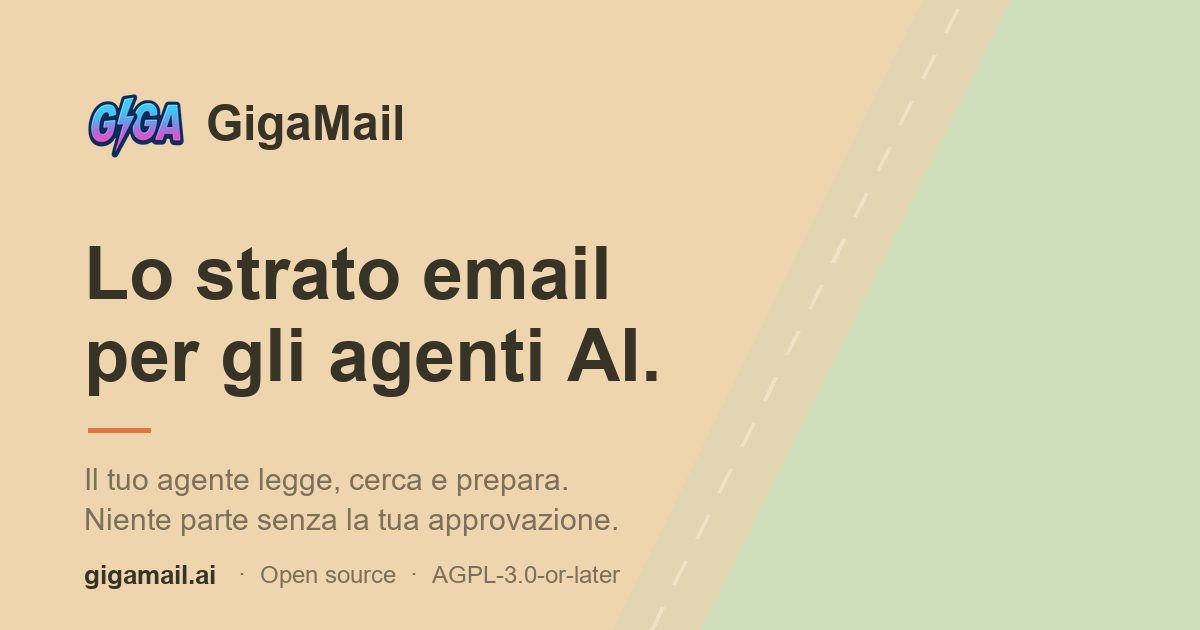
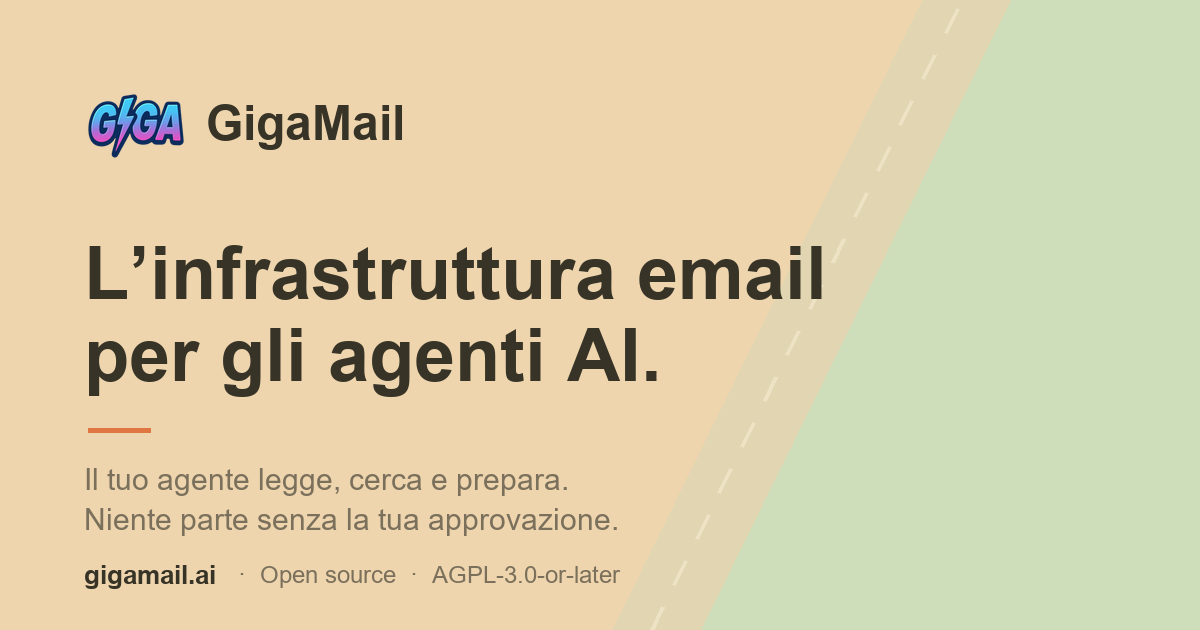
fix(sito): claim italiano e titolo dell'hero
Lo strato email era una traduzione letterale che in italiano suonava geologica: ora e' l'infrastruttura email, nel titolo, negli og:, nella guida e nella social card.

L'hero italiano dice che la mail e' guidata da un agente. Il titolo aveva bisogno di un margine destro, sul telefono andava a filo del bordo.

Changed region(s): [[0.0925, 0.3921, 0.7092, 0.4825]]

diff --git a/docs/journey.css b/docs/journey.css
@@ -1,5 +1,5 @@
-:root{font-family:Arial,Helvetica,sans-serif;color:#373427;background:#eed5ae;font-synthesis:none}*{box-sizing:border-box}body{margin:0;overflow:hidden}button{font:inherit;cursor:pointer;color:inherit}a{color:inherit;text-decoration:none}button:focus-visible,a:focus-visible,textarea:focus-visible,select:focus-visible{outline:3px solid #6861b1;outline-offset:3px}#world{position:fixed;inset:0;width:100%;height:100%;touch-action:none}header{position:fixed;top:25px;left:30px;right:30px;display:flex;justify-content:space-between;align-items:center;z-index:3;gap:15px}.brand{display:flex;align-items:center;gap:10px;font-size:24px;font-weight:700;letter-spacing:-1px}.brand .mark{width:40px;height:40px;flex:none;object-fit:contain;display:block}.brand small{font-size:10px;letter-spacing:2px;border-left:1px solid #6b694b55;padding-left:15px;margin-left:10px}.top-actions{display:flex;gap:8px;align-items:center}.top-actions button,.source{border:1px solid #ffffffaa;background:#fff9eaeb;padding:12px 16px;border-radius:30px;font-size:13px;box-shadow:0 4px 15px #71604110}.top-actions span{font-size:10px;border:1px solid #ccc7af;padding:2px 4px;margin-left:6px}.world-title{position:fixed;top:104px;left:34px;pointer-events:none}.world-title span{font-size:10px;letter-spacing:2.2px;color:#77745a}.world-title h1{font-size:33px;letter-spacing:-1.3px;font-weight:700;margin:7px 0}.world-title:after{content:'';display:block;width:42px;height:3px;background:#e07743;margin-top:14px}#panel{position:fixed;left:30px;bottom:105px;width:355px;max-height:65vh;overflow:auto;padding:24px;background:#fffbedf2;backdrop-filter:blur(14px);border:1px solid #ffffff;border-radius:20px;box-shadow:0 14px 55px #6e4d2630;z-index:3}.eyebrow{font-size:11px;letter-spacing:1.7px;font-weight:700;color:#987852;display:flex;align-items:center;gap:8px}.eyebrow:before{content:'';width:7px;height:7px;border-radius:50%;background:var(--station,#e58e52)}#title{font-size:27px;line-height:1.1;letter-spacing:-1px;margin:14px 0 12px}#description{font-size:16px;line-height:1.5;color:#79715e;margin:0 0 17px}#actions{display:flex;gap:8px;flex-wrap:wrap;margin-top:14px}#actions button{border:1px solid #d8d2bc;background:transparent;padding:11px 14px;border-radius:11px;font-size:14px;transition:transform .15s}#actions button:hover{transform:translateY(-2px)}#actions .primary{background:#3d4836;color:#fffbed;border-color:#3d4836}#actions .danger{color:#a54c43;border-color:#d6a49a}#status{font-size:12px;color:#807f5a;margin-bottom:0;line-height:1.4}textarea{width:100%;height:140px;resize:vertical;border:1px solid #d4cdb8;border-radius:9px;background:#fffdf5;color:#4f4a3b;padding:12px;font:14px/1.5 Arial}label{display:block;font-size:14px;margin-bottom:7px}select{width:100%;padding:10px;background:#f4efdf;color:#4a4738;border:1px solid #d8d2bc;border-radius:8px;font:14px Arial}.mail-card{border:1px dashed #c9bda0;padding:12px;border-radius:10px;font-size:14px;line-height:1.6;background:#f9f2df}.mail-card small{display:block;color:#9b8c71;font-size:12px}.readout{background:#ebe9d9;padding:12px;border-radius:10px;font-size:13px;line-height:1.7;margin-top:10px}.readout.bad{background:#f4dcd1;color:#97594a}.permission{display:flex;justify-content:space-between;padding:7px 0;border-bottom:1px solid #dfd8c4;font-size:13px;gap:8px}.permission em{font-style:normal;color:#a37749}#route-bar{position:fixed;bottom:62px;left:30px;right:30px;display:flex;justify-content:center;gap:5px;pointer-events:none}#route-bar span{font-size:12px;color:#726d56;background:#f9f4dfbe;border-radius:6px;padding:7px 9px}#route-bar .current{background:#3f4938;color:white}.controls{position:fixed;bottom:29px;left:30px;display:flex;gap:15px;align-items:center;font-size:12px;color:#71674d}.controls button{background:transparent;border:0;font-size:12px;text-decoration:underline}.controls kbd{font:12px Arial;background:#fff9e5;border-radius:3px;padding:4px}footer{position:fixed;right:30px;bottom:30px;font-size:10px;display:flex;gap:18px;color:#7a705b}footer a{text-decoration:underline}#map{position:fixed;right:30px;top:85px;width:270px;border-radius:18px;background:#fff9edf2;padding:20px;z-index:4;box-shadow:0 12px 30px #5b503e25}#map h2{font-size:18px;margin:0 0 12px}#map-items{display:grid;grid-template-columns:1fr 1fr;gap:6px}#map button{padding:10px 6px;font-size:13px;border:1px solid #d8d0ba;border-radius:7px;background:#f5efdf}#map small{display:block;font-size:12px;line-height:1.5;margin-top:12px;color:#918773}.touch-controls{display:none}button:disabled{opacity:.45;cursor:wait}.fallback{position:absolute;top:32%;left:40%;font-size:14px;width:220px;background:#fff9e6;padding:20px;border-radius:15px}
-@media(max-width:800px){header{top:15px;left:16px;right:16px}.brand{font-size:20px}.brand small,.source,.brand .name{display:none}.top-actions .download{padding:11px 13px;font-size:12px}.top-actions{gap:6px}.top-actions button{font-size:12px;padding:11px}.world-title{top:80px;left:20px}.world-title h1{font-size:25px}.world-title span{font-size:10px}#panel{left:14px;bottom:85px;width:calc(100% - 84px);max-width:350px;max-height:48vh;padding:17px;border-radius:16px}#title{font-size:22px;margin:9px 0}#description{font-size:14px;margin-bottom:10px}.eyebrow{font-size:10px}#actions{margin-top:10px}#actions button{padding:10px;font-size:13px}#status{font-size:12px}#route-bar{left:14px;right:14px;bottom:49px;justify-content:flex-start;overflow:hidden}#route-bar span{font-size:10px;padding:6px;white-space:nowrap}.controls{left:15px;bottom:23px}.controls>span{display:none}footer{right:15px;bottom:25px;font-size:12px}footer>span{display:none}.touch-controls{display:block;position:fixed;right:12px;bottom:100px;text-align:center}.touch-controls button{display:inline-grid;place-items:center;width:44px;height:42px;margin:2px 0;border-radius:9px;background:#fff8e9c9;border:1px solid #fff8e9;font-size:18px;touch-action:none}.touch-controls>div{display:flex;flex-direction:column}.touch-controls>button{display:block}#map{right:15px;width:260px;max-height:70vh;overflow:auto}textarea{height:110px}}
+:root{font-family:Arial,Helvetica,sans-serif;color:#373427;background:#eed5ae;font-synthesis:none}*{box-sizing:border-box}body{margin:0;overflow:hidden}button{font:inherit;cursor:pointer;color:inherit}a{color:inherit;text-decoration:none}button:focus-visible,a:focus-visible,textarea:focus-visible,select:focus-visible{outline:3px solid #6861b1;outline-offset:3px}#world{position:fixed;inset:0;width:100%;height:100%;touch-action:none}header{position:fixed;top:25px;left:30px;right:30px;display:flex;justify-content:space-between;align-items:center;z-index:3;gap:15px}.brand{display:flex;align-items:center;gap:10px;font-size:24px;font-weight:700;letter-spacing:-1px}.brand .mark{width:40px;height:40px;flex:none;object-fit:contain;display:block}.brand small{font-size:10px;letter-spacing:2px;border-left:1px solid #6b694b55;padding-left:15px;margin-left:10px}.top-actions{display:flex;gap:8px;align-items:center}.top-actions button,.source{border:1px solid #ffffffaa;background:#fff9eaeb;padding:12px 16px;border-radius:30px;font-size:13px;box-shadow:0 4px 15px #71604110}.top-actions span{font-size:10px;border:1px solid #ccc7af;padding:2px 4px;margin-left:6px}.world-title{position:fixed;top:104px;left:34px;max-width:calc(100% - 68px);pointer-events:none}.world-title span{font-size:10px;letter-spacing:2.2px;color:#77745a}.world-title h1{font-size:33px;letter-spacing:-1.3px;font-weight:700;margin:7px 0}.world-title:after{content:'';display:block;width:42px;height:3px;background:#e07743;margin-top:14px}#panel{position:fixed;left:30px;bottom:105px;width:355px;max-height:65vh;overflow:auto;padding:24px;background:#fffbedf2;backdrop-filter:blur(14px);border:1px solid #ffffff;border-radius:20px;box-shadow:0 14px 55px #6e4d2630;z-index:3}.eyebrow{font-size:11px;letter-spacing:1.7px;font-weight:700;color:#987852;display:flex;align-items:center;gap:8px}.eyebrow:before{content:'';width:7px;height:7px;border-radius:50%;background:var(--station,#e58e52)}#title{font-size:27px;line-height:1.1;letter-spacing:-1px;margin:14px 0 12px}#description{font-size:16px;line-height:1.5;color:#79715e;margin:0 0 17px}#actions{display:flex;gap:8px;flex-wrap:wrap;margin-top:14px}#actions button{border:1px solid #d8d2bc;background:transparent;padding:11px 14px;border-radius:11px;font-size:14px;transition:transform .15s}#actions button:hover{transform:translateY(-2px)}#actions .primary{background:#3d4836;color:#fffbed;border-color:#3d4836}#actions .danger{color:#a54c43;border-color:#d6a49a}#status{font-size:12px;color:#807f5a;margin-bottom:0;line-height:1.4}textarea{width:100%;height:140px;resize:vertical;border:1px solid #d4cdb8;border-radius:9px;background:#fffdf5;color:#4f4a3b;padding:12px;font:14px/1.5 Arial}label{display:block;font-size:14px;margin-bottom:7px}select{width:100%;padding:10px;background:#f4efdf;color:#4a4738;border:1px solid #d8d2bc;border-radius:8px;font:14px Arial}.mail-card{border:1px dashed #c9bda0;padding:12px;border-radius:10px;font-size:14px;line-height:1.6;background:#f9f2df}.mail-card small{display:block;color:#9b8c71;font-size:12px}.readout{background:#ebe9d9;padding:12px;border-radius:10px;font-size:13px;line-height:1.7;margin-top:10px}.readout.bad{background:#f4dcd1;color:#97594a}.permission{display:flex;justify-content:space-between;padding:7px 0;border-bottom:1px solid #dfd8c4;font-size:13px;gap:8px}.permission em{font-style:normal;color:#a37749}#route-bar{position:fixed;bottom:62px;left:30px;right:30px;display:flex;justify-content:center;gap:5px;pointer-events:none}#route-bar span{font-size:12px;color:#726d56;background:#f9f4dfbe;border-radius:6px;padding:7px 9px}#route-bar .current{background:#3f4938;color:white}.controls{position:fixed;bottom:29px;left:30px;display:flex;gap:15px;align-items:center;font-size:12px;color:#71674d}.controls button{background:transparent;border:0;font-size:12px;text-decoration:underline}.controls kbd{font:12px Arial;background:#fff9e5;border-radius:3px;padding:4px}footer{position:fixed;right:30px;bottom:30px;font-size:10px;display:flex;gap:18px;color:#7a705b}footer a{text-decoration:underline}#map{position:fixed;right:30px;top:85px;width:270px;border-radius:18px;background:#fff9edf2;padding:20px;z-index:4;box-shadow:0 12px 30px #5b503e25}#map h2{font-size:18px;margin:0 0 12px}#map-items{display:grid;grid-template-columns:1fr 1fr;gap:6px}#map button{padding:10px 6px;font-size:13px;border:1px solid #d8d0ba;border-radius:7px;background:#f5efdf}#map small{display:block;font-size:12px;line-height:1.5;margin-top:12px;color:#918773}.touch-controls{display:none}button:disabled{opacity:.45;cursor:wait}.fallback{position:absolute;top:32%;left:40%;font-size:14px;width:220px;background:#fff9e6;padding:20px;border-radius:15px}
+@media(max-width:800px){header{top:15px;left:16px;right:16px}.brand{font-size:20px}.brand small,.source,.brand .name{display:none}.top-actions .download{padding:11px 13px;font-size:12px}.top-actions{gap:6px}.top-actions button{font-size:12px;padding:11px}.world-title{top:80px;left:20px;max-width:calc(100% - 40px)}.world-title h1{font-size:25px}.world-title span{font-size:10px}#panel{left:14px;bottom:85px;width:calc(100% - 84px);max-width:350px;max-height:48vh;padding:17px;border-radius:16px}#title{font-size:22px;margin:9px 0}#description{font-size:14px;margin-bottom:10px}.eyebrow{font-size:10px}#actions{margin-top:10px}#actions button{padding:10px;font-size:13px}#status{font-size:12px}#route-bar{left:14px;right:14px;bottom:49px;justify-content:flex-start;overflow:hidden}#route-bar span{font-size:10px;padding:6px;white-space:nowrap}.controls{left:15px;bottom:23px}.controls>span{display:none}footer{right:15px;bottom:25px;font-size:12px}footer>span{display:none}.touch-controls{display:block;position:fixed;right:12px;bottom:100px;text-align:center}.touch-controls button{display:inline-grid;place-items:center;width:44px;height:42px;margin:2px 0;border-radius:9px;background:#fff8e9c9;border:1px solid #fff8e9;font-size:18px;touch-action:none}.touch-controls>div{display:flex;flex-direction:column}.touch-controls>button{display:block}#map{right:15px;width:260px;max-height:70vh;overflow:auto}textarea{height:110px}}
 html{scroll-behavior:smooth;scroll-padding-top:28px}body{overflow-x:hidden;overflow-y:auto}#game{position:relative;height:100svh;min-height:600px;overflow:hidden;isolation:isolate}#game #world,#game header,#game .world-title,#game #panel,#game #route-bar,#game .controls,#game footer,#game #map,#game .touch-controls{position:absolute}#game #world{touch-action:pan-y}.world-title .guide-link{display:inline-block;pointer-events:auto;font-size:12px;font-weight:600;border-bottom:1px solid #77745a75;padding:5px 0}.field-guide{background:#faf4e6;border-top:1px solid #b5a180;color:#373d30}.guide-wrap{max-width:1280px;margin:auto;padding:90px 48px 26px}.guide-intro{display:grid;grid-template-columns:1.4fr 1fr;gap:65px;align-items:end}.guide-kicker,.card-label{font-size:11px;font-weight:700;letter-spacing:2px;color:#9a6947}.guide-intro h2{font-size:clamp(34px,4.6vw,62px);line-height:1.05;letter-spacing:-2.5px;margin:20px 0 0}.guide-intro>p{font-size:18px;line-height:1.7;color:#74735f;margin:0}.guide-nav{display:flex;gap:9px;flex-wrap:wrap;margin:40px 0 65px}.guide-nav a{font-size:13px;padding:12px 17px;border:1px solid #d7d4bc;border-radius:30px;background:#f0eddd;transition:background .2s}.guide-nav a:hover{background:#dfdec8}.guide-section{display:grid;grid-template-columns:145px minmax(0,1fr);gap:36px;padding:0 0 68px;position:relative}.guide-section:before{content:'';position:absolute;left:27px;top:65px;bottom:10px;border-left:2px dashed #d5cfb5}.section-sign{padding-top:5px}.section-sign>span{display:grid;place-items:center;width:56px;height:56px;border-radius:16px;background:#e7b183;border:3px solid #fff9e9;box-shadow:0 4px 0 #c69b7270;font-size:22px;font-weight:700;transform:rotate(-5deg)}.section-sign p{position:relative;z-index:1;background:#faf4e6;padding:12px 0;max-width:125px;font-size:10px;line-height:1.7;letter-spacing:1.8px;color:#898568}.section-content{min-width:0;border-top:1px solid #dad6c2;padding-top:24px}.section-content>h2{font-size:clamp(26px,3vw,38px);letter-spacing:-1.3px;line-height:1.13;margin:0 0 20px}.section-content p{font-size:15px;line-height:1.7;color:#77725f}.section-content .section-lede{font-size:17px;max-width:780px;margin:0 0 27px}.guide-cards{display:grid;gap:14px;margin:24px 0}.guide-cards.three{grid-template-columns:repeat(3,minmax(0,1fr))}.guide-cards.two{grid-template-columns:repeat(2,minmax(0,1fr))}.guide-cards article{padding:23px;background:#f0eddd;border:1px solid #e2ddc9;border-radius:16px}.field-guide h3{font-size:18px;line-height:1.3;letter-spacing:-.4px;margin:12px 0}.guide-cards p,.lane-comparison p{margin-bottom:0}.card-label{font-size:10px;letter-spacing:1.6px}.guide-note{font-size:14px;line-height:1.7;padding:19px 23px;border-left:3px solid #aaa6c3;background:#ece9ef;border-radius:0 12px 12px 0;color:#6b657a}.guide-note b{display:block;color:#59546d}.checkpoint-steps{list-style:none;counter-reset:checkpoint;display:grid;grid-template-columns:repeat(3,minmax(0,1fr));padding:0;gap:22px}.checkpoint-steps li{border-top:4px solid #a7ae8b;padding-top:20px}.checkpoint-steps li:nth-child(2){border-color:#e2ad7e}.checkpoint-steps li:nth-child(3){border-color:#aaa6c3}.checkpoint-steps li>span{font-size:10px;font-weight:700;letter-spacing:1.8px;color:#89866d}.lane-comparison{display:grid;grid-template-columns:repeat(2,minmax(0,1fr));gap:15px}.lane-comparison article{border:1px solid #d6c8a8;padding:26px;border-radius:17px;background:#f4e7cd}.lane-comparison article+article{background:#e7ead9;border-color:#cad1b8}.lane-pill{display:inline-flex;align-items:center;gap:8px;font-size:10px;letter-spacing:1.1px;font-weight:bold}.lane-pill:before{content:'';width:9px;height:9px;border-radius:50%;background:#ce8a3a;box-shadow:0 0 0 4px #ce8a3a20}.lane-pill.green:before{background:#668962;box-shadow:0 0 0 4px #66896220}.audit-strip{padding:20px 24px;background:#394336;color:#f6f1df;border-radius:13px;display:flex;align-items:center;flex-wrap:wrap;gap:14px}.audit-strip>span{font-size:10px;letter-spacing:1.5px;color:#c7d0b3}.audit-strip code{font-size:13px;overflow-wrap:anywhere}.audit-strip p{color:#d7ddc8;margin:0;width:100%;font-size:13px}.tool-columns{display:grid;grid-template-columns:repeat(3,minmax(0,1fr));gap:14px;align-items:start}.tool-shelf{border:1px solid #d7dac5;border-radius:16px;overflow:hidden;background:#eef0e3}.shelf-heading{display:flex;gap:15px;padding:22px;align-items:center;border-bottom:1px dashed #8e9b7355}.shelf-heading>b{font-size:38px;font-weight:400;letter-spacing:-2px}.shelf-heading h3{margin:0 0 5px}.shelf-heading span{font-size:11px;color:#75745f}.tool-shelf ul{list-style:none;padding:14px 22px 20px;margin:0}.tool-shelf li{font-family:monospace;font-size:12px;line-height:2.1;overflow-wrap:anywhere}.tool-shelf.write{background:#f3e6cb;border-color:#e4d2b1}.tool-shelf.gated{background:#eedcd3;border-color:#dfc4b6}.security-results{border:1px solid #dfc9bb;border-radius:15px;overflow:hidden;background:#f3e7de;margin:25px 0}.security-results>div{display:flex;justify-content:space-between;gap:20px;padding:19px 22px;border-bottom:1px dashed #d9c9b9;font-size:14px;align-items:center}.security-results>div:last-child{border-bottom:0}.security-results b{font-size:10px;letter-spacing:1.2px;color:#a65d49;background:#e8cfc3;padding:7px 9px;border-radius:5px}.text-link{display:inline-block;border-bottom:1px solid #918b72;padding-bottom:4px;font-size:14px}.install-actions{display:flex;flex-wrap:wrap;align-items:center;gap:23px;margin:28px 0;font-size:13px}.guide-primary{display:inline-flex;padding:15px 22px;border-radius:28px;background:#3d4836;color:#fffbed;font-size:13px}.guide-primary:hover{background:#566049}.install-step{margin:14px 0;border:1px solid #ded8c3;border-radius:15px;overflow:hidden}.install-step>div{display:flex;align-items:center;gap:13px;background:#efebdb;padding:9px 20px}.install-step>div>span{font-size:12px;color:#a48057}.install-step h3{font-size:15px}.install-step pre{margin:0;padding:23px;overflow-x:auto;background:#faf7ed;font-size:13px;line-height:1.8;color:#526047}.install-example{font-style:italic}.guide-end{display:flex;align-items:center;justify-content:space-between;gap:25px;border-top:1px solid #d7d1ba;padding-top:35px}.guide-end p{font-size:12px;line-height:1.7;color:#86806c}.guide-figure{margin:26px 0 0;max-width:820px;border:1px solid #ded8c3;border-radius:15px;overflow:hidden;background:#faf7ed}.guide-figure img,.guide-figure video{display:block;width:100%;height:auto}.figure-lead{font-size:18px;margin:26px 0 0}.download-note{font-size:12px;line-height:1.7;color:#8a8370;max-width:640px;margin:-14px 0 0}.top-actions .download{border:1px solid #3d4836;background:#3d4836;color:#fffbed;padding:12px 16px;border-radius:30px;font-size:13px;box-shadow:0 4px 15px #71604110}.guide-figure figcaption{font-size:12px;line-height:1.6;color:#8a8370;padding:13px 18px;border-top:1px solid #e6e0cc}.guide-end .mark{width:34px;height:34px}.content-source{font-size:11px;line-height:1.7;color:#918977;max-width:820px;margin:30px 0 0}.content-source a{text-decoration:underline}
 @media(max-width:1000px){.guide-wrap{padding:65px 30px 25px}.guide-section{grid-template-columns:110px minmax(0,1fr);gap:25px}.guide-cards.three{grid-template-columns:1fr}.guide-intro{gap:30px}.shelf-heading{padding:17px;gap:10px}.tool-shelf ul{padding:12px 17px}.shelf-heading>b{font-size:29px}.shelf-heading h3{font-size:16px}}
 @media(max-width:700px){.guide-wrap{padding:52px 22px 25px}.guide-intro{grid-template-columns:1fr;gap:24px}.guide-intro h2{letter-spacing:-1.5px}.guide-intro>p{font-size:16px}.guide-nav{gap:7px;margin:28px 0 45px}.guide-nav a{font-size:12px;padding:10px 13px}.guide-section{grid-template-columns:1fr;gap:20px;padding-bottom:48px}.guide-section:before{display:none}.section-sign{display:flex;align-items:center;gap:15px}.section-sign>span{width:44px;height:44px;border-radius:13px;font-size:18px}.section-sign p{max-width:none;padding:0;font-size:10px}.section-content{padding-top:22px}.section-content .section-lede{font-size:16px}.guide-cards.two,.lane-comparison,.tool-columns,.checkpoint-steps{grid-template-columns:1fr}.checkpoint-steps{gap:10px}.checkpoint-steps li{padding-top:16px}.tool-shelf ul{columns:2;column-gap:15px}.tool-shelf li{font-size:11px}.security-results>div{padding:16px;gap:12px;font-size:13px}.security-results b{font-size:9px}.guide-end{flex-wrap:wrap}.guide-end .brand{font-size:24px}.guide-end p{margin:0}.guide-end .guide-primary{width:100%;justify-content:center}.install-step pre{font-size:11px;padding:17px}.audit-strip{padding:18px}.world-title .guide-link{font-size:11px}}

diff --git a/docs/it.html b/docs/it.html
@@ -1,12 +1,12 @@
-<!doctype html><html lang="it"><head><meta charset="utf-8"><meta name="viewport" content="width=device-width,initial-scale=1"><meta name="theme-color" content="#eed5ae"><title>GigaMail — lo strato email per gli agenti AI</title><meta name="description" content="Email open source per agenti AI. Il tuo agente legge, cerca e prepara le risposte; niente viene inviato o cancellato senza la tua approvazione. Microsoft Graph + IMAP, dati locali, AGPL-3.0.">
+<!doctype html><html lang="it"><head><meta charset="utf-8"><meta name="viewport" content="width=device-width,initial-scale=1"><meta name="theme-color" content="#eed5ae"><title>GigaMail — l’infrastruttura email per gli agenti AI</title><meta name="description" content="Email open source per agenti AI. Il tuo agente legge, cerca e prepara le risposte; niente viene inviato o cancellato senza la tua approvazione. Microsoft Graph + IMAP, dati locali, AGPL-3.0.">
 <link rel="canonical" href="https://gigamail.ai/it.html"><link rel="alternate" hreflang="en" href="https://gigamail.ai/"><link rel="alternate" hreflang="it" href="https://gigamail.ai/it.html"><link rel="alternate" hreflang="x-default" href="https://gigamail.ai/">
 <link rel="icon" href="./brand/gigamail.ico" sizes="any"><link rel="icon" type="image/png" sizes="96x96" href="./brand/gigamail-logo-96.png"><link rel="apple-touch-icon" href="./brand/gigamail-logo-256.png">
-<meta property="og:type" content="website"><meta property="og:site_name" content="GigaMail"><meta property="og:locale" content="it_IT"><meta property="og:url" content="https://gigamail.ai/it.html"><meta property="og:title" content="GigaMail — lo strato email per gli agenti AI"><meta property="og:description" content="Il tuo agente legge, cerca e prepara le risposte. Niente parte senza la tua approvazione. Accompagna un messaggio dentro Mail City e vedi dove si decide."><meta property="og:image" content="https://gigamail.ai/social-card-it.png"><meta property="og:image:width" content="1200"><meta property="og:image:height" content="630"><meta property="og:image:alt" content="GigaMail: lo strato email per gli agenti AI. Il tuo agente legge, cerca e prepara; niente parte senza la tua approvazione."><meta name="twitter:card" content="summary_large_image">
-<link rel="stylesheet" href="./journey.css?v=21"><script type="importmap">{"imports":{"three":"./vendor/three/build/three.module.js"}}</script></head><body>
+<meta property="og:type" content="website"><meta property="og:site_name" content="GigaMail"><meta property="og:locale" content="it_IT"><meta property="og:url" content="https://gigamail.ai/it.html"><meta property="og:title" content="GigaMail — l’infrastruttura email per gli agenti AI"><meta property="og:description" content="Il tuo agente legge, cerca e prepara le risposte. Niente parte senza la tua approvazione. Accompagna un messaggio dentro Mail City e vedi dove si decide."><meta property="og:image" content="https://gigamail.ai/social-card-it.png"><meta property="og:image:width" content="1200"><meta property="og:image:height" content="630"><meta property="og:image:alt" content="GigaMail: l’infrastruttura email per gli agenti AI. Il tuo agente legge, cerca e prepara; niente parte senza la tua approvazione."><meta name="twitter:card" content="summary_large_image">
+<link rel="stylesheet" href="./journey.css?v=22"><script type="importmap">{"imports":{"three":"./vendor/three/build/three.module.js"}}</script></head><body>
 <section id="game" aria-label="Esplora Mail City">
 <canvas id="world" aria-label="Un mondo postale 3D esplorabile"></canvas>
 <header><a class="brand" href="https://github.com/adecubed/gigamail" target="_blank" rel="noopener"><img class="mark" src="./brand/gigamail-logo-96.png" alt="" width="96" height="96"> <span class="name">GigaMail</span> <small>MAIL CITY</small></a><div class="top-actions"><a class="lang-switch" href="./" hreflang="en" lang="en">EN</a><button id="map-toggle" aria-expanded="false">Mappa <span>M</span></button><button id="follow">Segui la mail</button><a href="https://github.com/adecubed/gigamail" target="_blank" rel="noopener" class="source">GitHub ↗</a><a class="download" id="nav-download" href="https://github.com/adecubed/gigamail/releases/latest" target="_blank" rel="noopener">Scarica GigaMail</a></div></header>
-<div class="world-title"><span>UN MESSAGGIO. OGNI DECISIONE.</span><h1>Il viaggio di una mail.</h1><a href="#technical" class="guide-link">Apri la guida tecnica ↓</a></div>
+<div class="world-title"><span>UN MESSAGGIO. OGNI DECISIONE.</span><h1>Il viaggio di una mail, guidata da un agente.</h1><a href="#technical" class="guide-link">Apri la guida tecnica ↓</a></div>
 <aside id="map" hidden aria-label="Mappa delle stazioni"><h2>Esplora Mail City</h2><div id="map-items"></div><small>Scegli una stazione per guardarti intorno.</small></aside>
 <section id="panel" aria-label="Stazione corrente"><div class="eyebrow" id="eyebrow"></div><h2 id="title"></h2><p id="description"></p><div id="details"></div><div id="actions"></div><p id="status" role="status" aria-live="polite"></p></section>
 <div id="route-bar" aria-label="Avanzamento del viaggio"></div>
@@ -17,7 +17,7 @@
 </section>
 <main id="technical" class="field-guide">
  <div class="guide-wrap">
-  <div class="guide-intro"><div><p class="guide-kicker">MAIL CITY / GUIDA TECNICA</p><h2>Il viaggio sopra.<br>Il motore sotto.</h2></div><p>GigaMail è lo strato email per gli agenti AI. Legge e cerca nella tua casella, porta dentro i tuoi documenti e il calendario, e mette una decisione umana attorno alle azioni che la richiedono.</p></div>
+  <div class="guide-intro"><div><p class="guide-kicker">MAIL CITY / GUIDA TECNICA</p><h2>Il viaggio sopra.<br>Il motore sotto.</h2></div><p>GigaMail è l’infrastruttura email per gli agenti AI. Legge e cerca nella tua casella, porta dentro i tuoi documenti e il calendario, e mette una decisione umana attorno alle azioni che la richiedono.</p></div>
   <nav class="guide-nav" aria-label="Guida tecnica"><a href="#engine">01 Motore</a><a href="#checkpoint">02 Approvazione</a><a href="#autonomy">03 Autopilot</a><a href="#tool-depot">04 Strumenti</a><a href="#security-notes">05 Sicurezza</a><a href="#installation">06 Installazione</a></nav>
   <section class="guide-section" id="engine"><div class="section-sign"><span>01</span><p>LA SALA MACCHINE</p></div><div class="section-content"><h2>L’intelligenza arriva dal tuo agente.</h2><p class="section-lede">GigaMail gira sul tuo computer, accanto alla casella che usi già. Non c’è nessun modello incorporato: l’intelligenza è quella dell’agente che colleghi. Funziona con Claude, Codex, OpenClaw, Hermes o il tuo agente. Il nostro è Sofia.</p><div class="guide-cards three"><article><span class="card-label">CONTESTO</span><h3>I tuoi documenti. Le tue risposte.</h3><p>Identità, tono di voce, listini e file di conoscenza danno all’agente il contesto che gli serve per preparare una risposta.</p></article><article><span class="card-label">CONNESSIONE</span><h3>La casella resta tua.</h3><p>Microsoft Graph e IMAP collegano GigaMail a provider come Gmail e Aruba. MCP su stdio collega l’agente, senza porte di rete in ascolto e senza un servizio ponte di GigaMail.</p></article><article><span class="card-label">IN PRATICA</span><h3>Dalla richiesta alla proposta.</h3><p>Costruiamo e vendiamo appartamenti. Un cliente chiede di un’unità: metratura, prezzo, un appuntamento. L’agente prende i numeri veri dai nostri file, allega le planimetrie giuste e propone orari davvero liberi in calendario.</p></article></div><h3 class="figure-lead">Questo risponde ai nostri clienti tutti i giorni.</h3><figure class="guide-figure"><video controls muted playsinline preload="metadata" poster="demo/poster.png" src="demo/gigamail-console-0.3.1.mp4" aria-label="Tour di novanta secondi della console GigaMail su una casella dimostrativa: dashboard, lettura di una mail, una risposta preparata dall’agente da un’istruzione di una riga, cartelle, calendario, domande alla posta, regole di automazione e guida al primo avvio."></video><figcaption>La console umana in novanta secondi, su una casella dimostrativa. Guidi l’agente dalla tua posta: scrivi un’istruzione, leggi cosa è tornato, la correggi, la mandi. Non stai chattando con un bot in un’altra finestra.</figcaption></figure><div class="guide-note"><b>Dati in locale, confine esplicito verso il provider.</b> Indici della posta, credenziali e memoria restano sul tuo computer. Il contenuto che il tuo agente legge passa dal provider di quell’agente.</div></div></section>
   <section class="guide-section" id="checkpoint"><div class="section-sign"><span>02</span><p>IL CHECKPOINT UMANO</p></div><div class="section-content"><h2>Il permesso è un passaggio separato.</h2><p class="section-lede">Un agente può chiedere di inviare un messaggio. Non riceve un segreto con cui approvare la propria richiesta.</p><ol class="checkpoint-steps"><li><span>RICHIESTA</span><h3>L’agente riceve un’anteprima.</h3><p>Un’azione proposta restituisce un’anteprima e un ID di richiesta inerte. L’agente può presentare la proposta, ma non può trasformare quell’ID in un’approvazione.</p></li><li><span>DECISIONE</span><h3>Approvi fuori dall’agente.</h3><p>La console, la CLI, Telegram o le notifiche di Windows portano la decisione davanti a te. L’approvazione è protetta da Windows Hello o Touch ID, fuori dalla portata dell’agente.</p></li><li><span>ESECUZIONE</span><h3>Vanno in esecuzione gli argomenti approvati.</h3><p>L’esecuzione usa esattamente gli argomenti che hai riletto, non una versione sostituita dall’agente. Ogni scrittura finisce nel registro delle azioni.</p></li></ol></div></section>
@@ -48,4 +48,4 @@ fetch('https://api.github.com/repos/adecubed/gigamail/releases/latest',{headers:
 btn.href=exe.browser_download_url;btn.textContent=BTN_LABEL+' '+String(rel.tag_name||'').replace(/^v/,'');
 var mb=Math.round(exe.size/1048576),note=document.getElementById('download-note');
 if(note&&mb)note.insertAdjacentText('afterbegin',mb+' MB \u00b7 ');}).catch(function(){});})();
-</script><script type="module" src="./journey.js?v=21"></script></body></html>
+</script><script type="module" src="./journey.js?v=22"></script></body></html>

diff --git a/docs/index.html b/docs/index.html
@@ -2,7 +2,7 @@
 <link rel="canonical" href="https://gigamail.ai/"><link rel="alternate" hreflang="en" href="https://gigamail.ai/"><link rel="alternate" hreflang="it" href="https://gigamail.ai/it.html"><link rel="alternate" hreflang="x-default" href="https://gigamail.ai/">
 <link rel="icon" href="./brand/gigamail.ico" sizes="any"><link rel="icon" type="image/png" sizes="96x96" href="./brand/gigamail-logo-96.png"><link rel="apple-touch-icon" href="./brand/gigamail-logo-256.png">
 <meta property="og:type" content="website"><meta property="og:site_name" content="GigaMail"><meta property="og:url" content="https://gigamail.ai/"><meta property="og:title" content="GigaMail — the email layer for AI agents"><meta property="og:description" content="Your agent reads, searches and drafts. Nothing is sent or deleted without your approval. Walk a message through Mail City to see where each decision happens."><meta property="og:image" content="https://gigamail.ai/social-card.png"><meta property="og:image:width" content="1200"><meta property="og:image:height" content="630"><meta property="og:image:alt" content="GigaMail: the email layer for AI agents. Your agent reads, searches and drafts; nothing is sent without your approval."><meta name="twitter:card" content="summary_large_image">
-<link rel="stylesheet" href="./journey.css?v=21"><script type="importmap">{"imports":{"three":"./vendor/three/build/three.module.js"}}</script></head><body>
+<link rel="stylesheet" href="./journey.css?v=22"><script type="importmap">{"imports":{"three":"./vendor/three/build/three.module.js"}}</script></head><body>
 <section id="game" aria-label="Explore Mail City">
 <canvas id="world" aria-label="An explorable 3D postal world"></canvas>
 <header><a class="brand" href="https://github.com/adecubed/gigamail" target="_blank" rel="noopener"><img class="mark" src="./brand/gigamail-logo-96.png" alt="" width="96" height="96"> <span class="name">GigaMail</span> <small>MAIL CITY</small></a><div class="top-actions"><a class="lang-switch" href="./it.html" hreflang="it" lang="it">IT</a><button id="map-toggle" aria-expanded="false">Map <span>M</span></button><button id="follow">Follow mail</button><a href="https://github.com/adecubed/gigamail" target="_blank" rel="noopener" class="source">GitHub ↗</a><a class="download" id="nav-download" href="https://github.com/adecubed/gigamail/releases/latest" target="_blank" rel="noopener">Download GigaMail</a></div></header>
@@ -48,4 +48,4 @@ fetch('https://api.github.com/repos/adecubed/gigamail/releases/latest',{headers:
 btn.href=exe.browser_download_url;btn.textContent=BTN_LABEL+' '+String(rel.tag_name||'').replace(/^v/,'');
 var mb=Math.round(exe.size/1048576),note=document.getElementById('download-note');
 if(note&&mb)note.insertAdjacentText('afterbegin',mb+' MB \u00b7 ');}).catch(function(){});})();
-</script><script type="module" src="./journey.js?v=21"></script></body></html>
+</script><script type="module" src="./journey.js?v=22"></script></body></html>

diff --git a/docs/journey.js b/docs/journey.js
@@ -2,7 +2,7 @@ import * as THREE from 'three';
 import Keyboard from './vendor/bruno/Inputs/Keyboard.js';
 import {Events} from './vendor/bruno/Events.js';
 import {FollowView} from './vendor/bruno/FollowView.js';
-import {MailFlow,stations} from './flow.js?v=21';
+import {MailFlow,stations} from './flow.js?v=22';
 
 const $=id=>document.getElementById(id),flow=new MailFlow(),events=new Events();
 const reduced=matchMedia('(prefers-reduced-motion: reduce)').matches;
